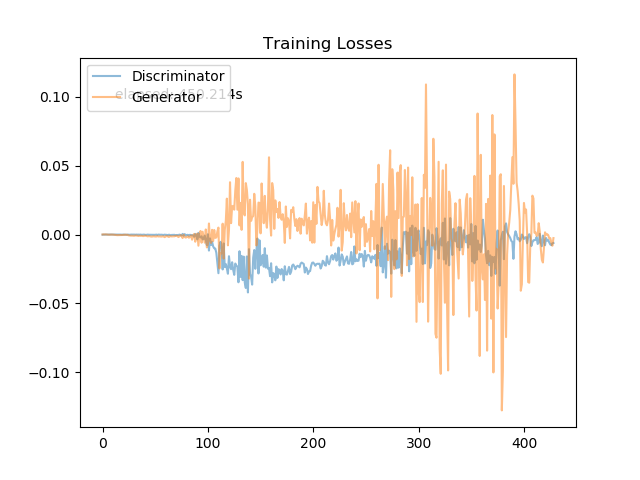
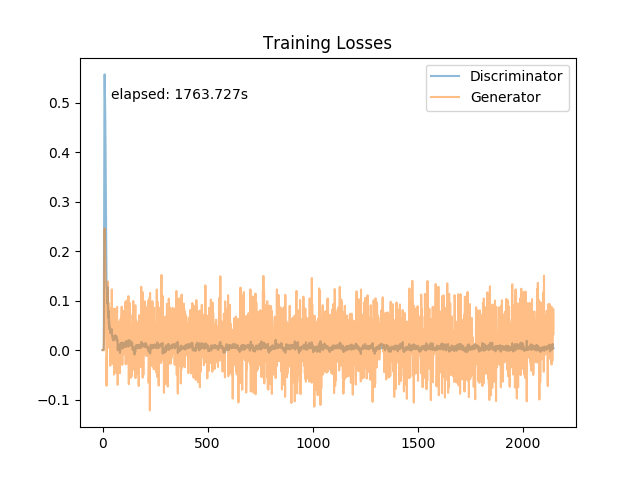
use rmsprop, and more epochs

diff --git a/wgan.py b/wgan.py
@@ -68,10 +68,10 @@ class WGAN(object):
         g_vars = [var for var in t_vars if var.name.startswith('generator')]
 
         # Optimize
-        beta1 = 0.5
+        # beta1 = 0.5
         with tf.control_dependencies(tf.get_collection(tf.GraphKeys.UPDATE_OPS)):
-            d_train_opt = tf.train.AdamOptimizer(self.learning_rate, beta1=beta1).minimize(d_loss, var_list=d_vars)
-            g_train_opt = tf.train.AdamOptimizer(self.learning_rate, beta1=beta1).minimize(g_loss, var_list=g_vars)
+            d_train_opt = tf.train.RMSPropOptimizer(self.learning_rate).minimize(d_loss, var_list=d_vars)
+            g_train_opt = tf.train.RMSPropOptimizer(self.learning_rate).minimize(g_loss, var_list=g_vars)
 
         # weight clipping
         d_weight_clip = [p.assign(tf.clip_by_value(p, -0.01, 0.01)) for p in d_vars]
@@ -83,6 +83,8 @@ class WGAN(object):
         steps = 0
         losses = []
 
+        new_epochs = self.d_train_freq * self.epochs
+
         start_time = time.time()
 
         with tf.Session() as sess:
@@ -90,7 +92,7 @@ class WGAN(object):
             sess.run(tf.global_variables_initializer())
 
             # start training
-            for e in range(self.epochs):
+            for e in range(new_epochs):
                 for ii in range(self.mnist_loader.train.num_examples // self.batch_size):
                     # no need labels
                     batch_x, _ = self.mnist_loader.train.next_batch(self.batch_size)
@@ -108,8 +110,8 @@ class WGAN(object):
                     }
 
                     # Run optimizers (train D more than G)
-                    _ = sess.run(self.d_opt, feed_dict=fd)
                     _ = sess.run(self.d_weight_clip)
+                    _ = sess.run(self.d_opt, feed_dict=fd)
                     if ii % self.d_train_freq == 0:
                         _ = sess.run(self.g_opt, feed_dict=fd)
 
@@ -127,11 +129,12 @@ class WGAN(object):
                     steps += 1
 
                 # save generation results at every epochs
-                if e % self.save_every == 0:
+                if e % (self.d_train_freq * self.save_every) == 0:
                     val_z = np.random.uniform(-1, 1, size=(val_size, self.z_dim))
                     val_out = sess.run(network.generator(self.inputs_z, reuse=True, is_training=False),
                                        feed_dict={self.inputs_z: val_z})
-                    image_fn = os.path.join(self.assets_dir, '{:s}-val-e{:03d}.png'.format(self.dataset_type, e+1))
+                    image_fn = os.path.join(self.assets_dir, '{:s}-val-e{:03d}.png'.
+                                            format(self.dataset_type, (e // self.d_train_freq + 1)))
                     utils.validation(val_out, self.val_block_size, image_fn, color_mode='L')
 
         end_time = time.time()
